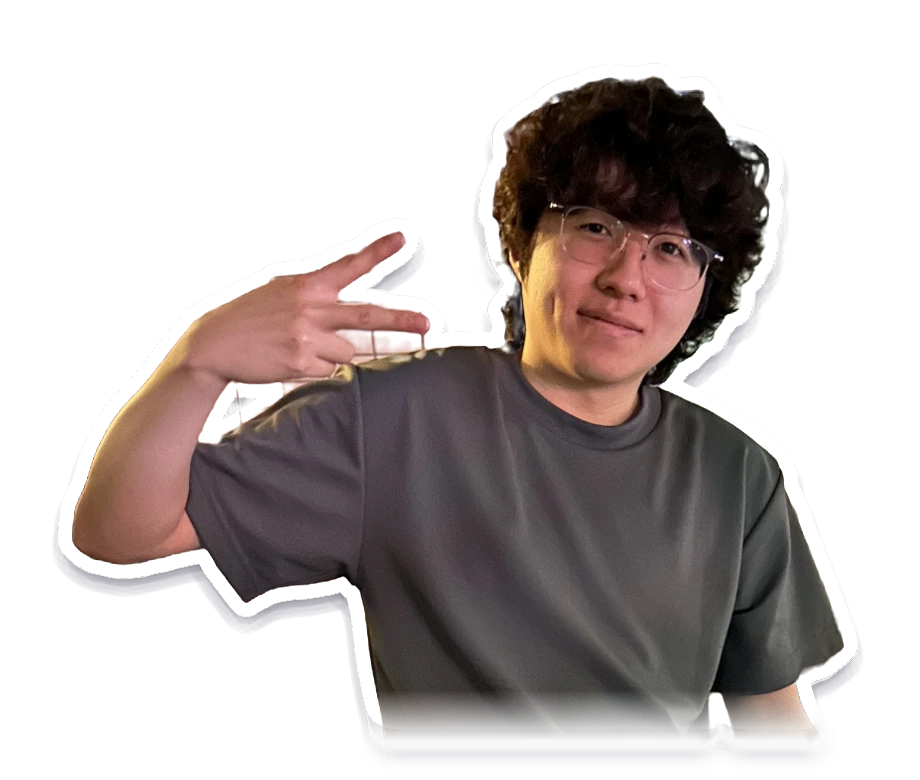
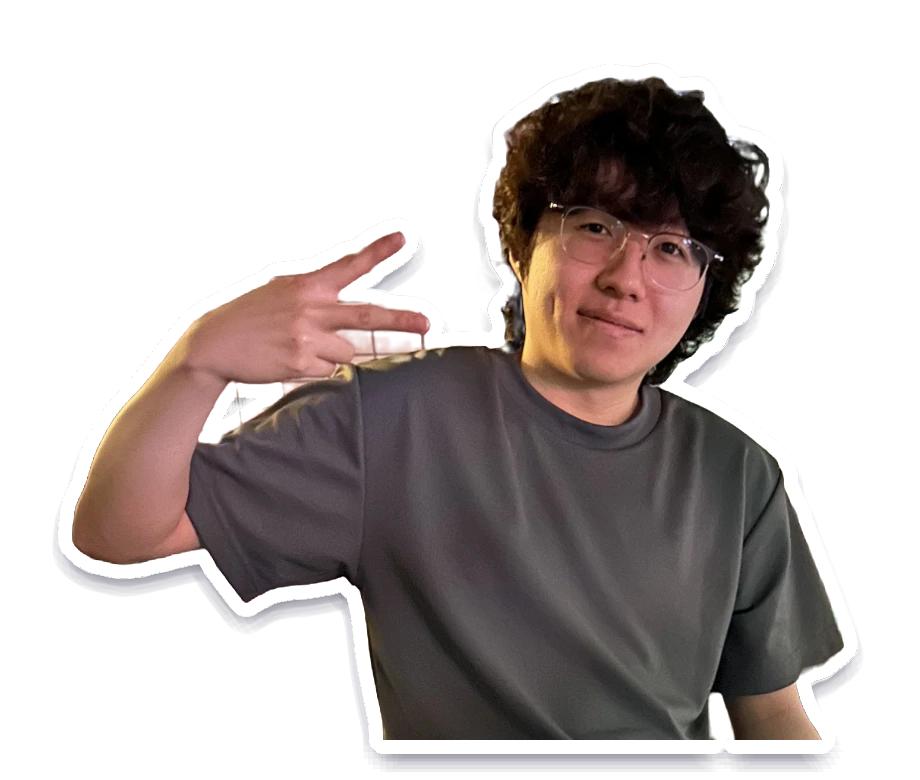
update

Changed region(s): [[0.3957, 0.8923, 0.913, 0.9846]]

diff --git a/index.html b/index.html
@@ -8,33 +8,26 @@
 <meta name="claude:viewport-fit-sides" content="cover">
 <link rel="preconnect" href="https://fonts.googleapis.com">
 <link rel="preconnect" href="https://fonts.gstatic.com" crossorigin>
-<link rel="stylesheet" href="https://fonts.googleapis.com/css2?family=IBM+Plex+Sans+KR:wght@400;500;600&display=swap">
+<link rel="stylesheet" href="https://fonts.googleapis.com/css2?family=Noto+Sans+KR:wght@400;500;600;700&display=swap">
 <style>
-/* Layout: 상단 내비게이션 + 두 화면(타임라인 지도 / 플레이 라이브러리 그리드) */
+/* Color: 포트폴리오 추천 팔레트 'Studio Concrete'
+   Charcoal #2B2D33 · Mid-gray #6E7278 · Off-white #F4F1ED · Orange-red #FF5C39 (포인트는 5% 이하로만)
+   Type: Noto Sans KR (가독성 우선) */
 :root {
-  --bg: #eef0f4;
-  --surface: #ffffff;
-  --ink: #14161c;
-  --muted: #5d6372;
-  --line: #d7dbe3;
-  --accent: #2b45d4;
-  --accent-soft: #dfe4fb;
-  --done: #3f9b5a;
-  --done-soft: #dcefe1;
-  --path: #b9bfcc;
-  --body: "IBM Plex Sans KR", "Apple SD Gothic Neo", "Malgun Gothic", system-ui, sans-serif;
-}
-@media (prefers-color-scheme: dark) {
-  :root:not([data-theme="light"]) {
-    --bg: #101218; --surface: #191c24; --ink: #eceef3; --muted: #9aa1b2; --line: #2a2f3b;
-    --accent: #7d92ff; --accent-soft: #232b4d; --done: #66c283; --done-soft: #1d3326; --path: #3a404e; color-scheme: dark;
-  }
-}
-:root[data-theme="dark"] {
-  --bg: #101218; --surface: #191c24; --ink: #eceef3; --muted: #9aa1b2; --line: #2a2f3b;
-  --accent: #7d92ff; --accent-soft: #232b4d; --done: #66c283; --done-soft: #1d3326; --path: #3a404e; color-scheme: dark;
-}
-
+  --bg: #f4f1ed;
+  --surface: #fbfaf8;
+  --ink: #2b2d33;
+  --muted: #6e7278;
+  --line: #e2ddd6;
+  --accent: #ff5c39;
+  --accent-soft: #ece7e0;
+  --done: #2b2d33;
+  --done-soft: #ece7e0;
+  --path: #c9c4bd;
+  --body: "Noto Sans KR", "Apple SD Gothic Neo", "Malgun Gothic", system-ui, sans-serif;
+  --display: var(--body);
+  color-scheme: light;
+}h1, h2, h3, .brand { font-family: var(--display); }
 * { box-sizing: border-box; }
 [hidden] { display: none !important; }
 body { background: var(--bg); color: var(--ink); font-family: var(--body); }
@@ -78,7 +71,7 @@ main.wrap { padding-block: clamp(40px, 6vw, 80px) clamp(56px, 8vw, 106px); }
   padding: 6px 11px; border-radius: 999px;
 }
 .filter:hover { background: var(--accent-soft); }
-.filter[aria-pressed="true"] { background: var(--accent); border-color: var(--accent); color: var(--bg); }
+.filter[aria-pressed="true"] { background: var(--ink); border-color: var(--ink); color: #fff; }
 .filter:focus-visible { outline: 2px solid var(--accent); outline-offset: 2px; }
 .filter .n { font-size: 11px; opacity: .7; margin-left: 4px; font-variant-numeric: tabular-nums; }
 .grid { display: grid; grid-template-columns: repeat(auto-fill, minmax(108px, 1fr)); gap: 22px 16px; list-style: none; margin: 0; padding: 0; }
@@ -121,16 +114,16 @@ main.wrap { padding-block: clamp(40px, 6vw, 80px) clamp(56px, 8vw, 106px); }
 }
 .node svg { width: 20px; height: 20px; }
 .stage[data-state="done"] .node { border-color: var(--done); background: var(--done-soft); color: var(--done); }
-.stage[data-state="current"] .node { border-color: var(--accent); background: var(--accent); color: var(--surface); box-shadow: 0 0 0 6px var(--accent-soft); }
+.stage[data-state="current"] .node { border-color: var(--accent); background: var(--accent); color: #fff; box-shadow: 0 0 0 6px var(--accent-soft); }
 .stage[data-state="goal"] .node { border-style: dashed; color: var(--muted); }
 .stage[data-highlight] .node { width: 56px; height: 56px; }
 .lv { font-size: 12px; font-weight: 600; font-variant-numeric: tabular-nums; letter-spacing: .02em; color: var(--muted); background: var(--surface); padding: 1px 9px; border-radius: 999px; box-shadow: 0 0 0 1px var(--line); position: relative; z-index: 1; white-space: nowrap; }
 .stage[data-state="done"] .lv { color: var(--done); }
-.stage[data-state="current"] .lv { color: var(--accent); }
+.stage[data-state="current"] .lv { color: var(--ink); }
 
 .card { max-width: 860px; display: grid; gap: 10px; }
 .card .year { font-size: 13px; font-weight: 600; letter-spacing: .06em; color: var(--muted); font-variant-numeric: tabular-nums; margin-bottom: -6px; }
-.stage[data-state="current"] .card .year { color: var(--accent); }
+
 .card .head { display: flex; flex-wrap: wrap; align-items: baseline; gap: 6px 10px; }
 .card h3 { margin: 0; font-size: 19px; font-weight: 600; line-height: 1.35; text-wrap: balance; }
 .card p { margin: 0; font-size: 15px; line-height: 1.75; color: var(--muted); word-break: keep-all; max-width: 68ch; }
@@ -155,7 +148,7 @@ main.wrap { padding-block: clamp(40px, 6vw, 80px) clamp(56px, 8vw, 106px); }
 .links { display: flex; flex-wrap: wrap; gap: 8px; }
 .links a {
   font-size: 13px; font-weight: 600; color: var(--accent); text-decoration: none;
-  padding: 6px 12px; border-radius: 8px; background: var(--accent-soft);
+  padding: 6px 12px; border-radius: 8px; background: var(--ink); color: #fff;
 }
 .links a:hover { text-decoration: underline; }
 .links a:focus-visible { outline: 2px solid var(--accent); outline-offset: 2px; }
@@ -173,7 +166,7 @@ main.wrap { padding-block: clamp(40px, 6vw, 80px) clamp(56px, 8vw, 106px); }
 .hero { display: grid; grid-template-columns: minmax(0, 1.05fr) minmax(0, .95fr); align-items: center; gap: 40px; padding-block: 12px 56px; }
 .eyebrow { font-size: 12px; font-weight: 600; letter-spacing: .14em; color: var(--accent); display: flex; align-items: center; gap: 8px; }
 .eyebrow::before { content: ""; width: 22px; height: 2px; background: var(--accent); }
-.hero h1 { margin: 18px 0 0; font-size: clamp(36px, 5.4vw, 72px); line-height: 1.12; letter-spacing: -.035em; font-weight: 600; text-wrap: balance; word-break: keep-all; }
+.hero h1 { margin: 0; font-size: clamp(36px, 5.4vw, 72px); line-height: 1.12; letter-spacing: -.035em; font-weight: 600; text-wrap: balance; word-break: keep-all; }
 .hero h1 em { font-style: normal; color: var(--accent); }
 .hero .sub { margin: 22px 0 0; font-size: 17px; line-height: 1.7; color: var(--muted); max-width: 34em; word-break: keep-all; }
 .cta { display: flex; flex-wrap: wrap; gap: 10px; margin-top: 30px; }
@@ -182,13 +175,13 @@ main.wrap { padding-block: clamp(40px, 6vw, 80px) clamp(56px, 8vw, 106px); }
 .btn:hover { box-shadow: 0 0 0 1px var(--ink); }
 .btn:focus-visible { outline: 2px solid var(--accent); outline-offset: 2px; }
 .photo { position: relative; justify-self: end; width: min(100%, 460px); }
-.photo { isolation: isolate; padding: 24px 0 8px; }
-.photo::before { content: ""; position: absolute; inset: 14% 4% 0 6%; z-index: -1; background: var(--accent-soft); border-radius: 46% 54% 44% 56% / 52% 46% 54% 48%; }
-.photo::after { content: ""; position: absolute; z-index: -1; right: 2%; top: 6%; width: 74px; height: 74px; border-radius: 50%; border: 2px dashed var(--accent); opacity: .5; }
-.photo img { width: 100%; height: auto; display: block; position: relative; }
-.photo .spark { position: absolute; z-index: 1; color: var(--accent); font-size: 22px; line-height: 1; }
+.photo { isolation: isolate; padding: 0; }
+
+
+.photo img { width: 100%; height: auto; display: block; position: relative; margin-bottom: 0; }
+.photo .spark { position: absolute; z-index: 1; color: var(--ink); font-size: 22px; line-height: 1; }
 .photo .tag { position: absolute; z-index: 2; left: -4px; bottom: 18%; background: var(--surface); box-shadow: 0 0 0 1px var(--line), 0 10px 24px -14px rgba(20, 22, 28, .45); border-radius: 12px; padding: 10px 14px; font-size: 13px; display: grid; gap: 2px; }
-.photo .tag b { font-size: 12px; color: var(--accent); letter-spacing: .06em; }
+.photo .tag b { font-size: 12px; color: var(--ink); letter-spacing: .06em; }
 @media (max-width: 860px) {
   .hero { grid-template-columns: minmax(0, 1fr); gap: 28px; }
   .photo { justify-self: center; width: min(100%, 360px); order: -1; }
@@ -212,7 +205,7 @@ main.wrap { padding-block: clamp(40px, 6vw, 80px) clamp(56px, 8vw, 106px); }
 .pick img { width: 100%; height: 100%; object-fit: contain; display: block; transition: transform .25s ease; }
 .pick:hover img { transform: scale(1.03); }
 .pick .k { font-size: 12px; font-weight: 600; color: var(--accent); }
-.pick h3 { margin: -6px 0 0; font-size: 18px; font-weight: 600; }
+.pick h3 { margin: 0; font-size: 18px; font-weight: 600; }
 .pick p { margin: -4px 0 0; font-size: 14px; color: var(--muted); line-height: 1.6; }
 .pick:focus-visible { outline: 2px solid var(--accent); outline-offset: 4px; border-radius: 12px; }
 .method { display: grid; grid-template-columns: repeat(5, minmax(0, 1fr)); gap: 12px; list-style: none; margin: 0; padding: 0; counter-reset: step; }
@@ -224,9 +217,34 @@ main.wrap { padding-block: clamp(40px, 6vw, 80px) clamp(56px, 8vw, 106px); }
 .shelf { display: grid; grid-template-columns: repeat(12, minmax(0, 1fr)); gap: 12px; }
 @media (max-width: 860px) { .shelf { grid-template-columns: repeat(6, minmax(0, 1fr)); } }
 .shelf img { width: 100%; aspect-ratio: 1; object-fit: cover; border-radius: 22%; box-shadow: 0 0 0 1px var(--line); display: block; }
+.shelf .spot { grid-column: span 2; margin: 0; display: grid; gap: 8px; align-content: start; justify-items: center; }
+.shelf .spot img { width: 66%; box-shadow: 0 0 0 5px var(--accent); }
+.shelf .spot figcaption { font-size: 14px; font-weight: 600; text-align: center; word-break: keep-all; }
 .site-foot { border-top: 1px solid var(--line); padding-block: 28px 40px; display: flex; flex-wrap: wrap; justify-content: space-between; gap: 12px; font-size: 13px; color: var(--muted); }
 .site-foot b { color: var(--ink); }
 
+/* ---------- About ---------- */
+.about { display: grid; grid-template-columns: repeat(3, minmax(0, 1fr)); gap: 0; border-block: 1px solid var(--line); margin-bottom: 80px; }
+.about > div { padding: 26px 28px 28px 0; display: grid; gap: 14px; align-content: start; min-width: 0; }
+.about > div + div { padding-left: 28px; border-left: 1px solid var(--line); }
+@media (max-width: 860px) { .about { grid-template-columns: minmax(0, 1fr); } .about > div + div { padding-left: 0; border-left: 0; border-top: 1px solid var(--line); } .about > div { padding-right: 0; } }
+.about h3 { margin: 0; font-size: 13px; font-weight: 600; color: var(--muted); letter-spacing: .04em; }
+.about dl { margin: 0; display: grid; grid-template-columns: auto minmax(0, 1fr); gap: 8px 16px; font-size: 14px; }
+.about dt { color: var(--muted); white-space: nowrap; }
+.about dd { margin: 0; word-break: keep-all; }
+.about ul { margin: 0; padding: 0; list-style: none; display: grid; gap: 10px; }
+.about li { font-size: 14px; line-height: 1.55; display: grid; gap: 2px; word-break: keep-all; }
+.about li b { font-weight: 600; }
+.about li span { color: var(--muted); font-size: 13px; }
+.about .chips { display: flex; flex-wrap: wrap; gap: 6px; }
+.about .chips span { font-size: 13px; padding: 4px 10px; border-radius: 999px; background: var(--surface); box-shadow: 0 0 0 1px var(--line); }
+.about dd .sub { color: var(--muted); font-size: 13px; }
+.about .tools { grid-template-columns: minmax(0, 1fr); gap: 2px; }
+.about .tools dt { font-size: 12px; margin-top: 8px; }
+.about .tools dt:first-child { margin-top: 0; }
+.about .timeline-mini li { grid-template-columns: 44px minmax(0, 1fr); column-gap: 10px; }
+.about .timeline-mini time { grid-row: span 2; font-size: 13px; color: var(--muted); font-variant-numeric: tabular-nums; padding-top: 1px; }
+.about .note { margin: 0; font-size: 13px; color: var(--muted); line-height: 1.6; word-break: keep-all; }
 /* ---------- 타임라인 요약 ---------- */
 .lead { margin: 0 0 28px; display: grid; gap: 6px; }
 .lead h2 { margin: 0; font-size: clamp(24px, 3.4vw, 34px); font-weight: 600; letter-spacing: -.02em; line-height: 1.3; text-wrap: balance; }
@@ -281,7 +299,7 @@ main.wrap { padding-block: clamp(40px, 6vw, 80px) clamp(56px, 8vw, 106px); }
 
 <header class="topbar">
   <div class="wrap">
-    <a class="brand" href="#home" style="text-decoration:none;color:inherit">LEE CHANGYEON <span style="font-weight:500;color:var(--muted);font-size:12px;letter-spacing:.08em">· GAME DESIGNER</span></a>
+    <a class="brand" href="#home" style="text-decoration:none;color:inherit">LEE CHANGYEON</a>
     <nav class="nav" aria-label="페이지">
       <a href="#home" id="nav-home">홈</a>
       <a href="#portfolio" id="nav-portfolio">포트폴리오</a>
@@ -295,53 +313,62 @@ main.wrap { padding-block: clamp(40px, 6vw, 80px) clamp(56px, 8vw, 106px); }
   <section id="view-home" aria-labelledby="nav-home">
     <div class="hero">
       <div>
-        <div class="eyebrow">GAME DESIGNER · 이창연</div>
-        <h1>플레이어가 떠나는 순간을 <em>기록하는</em> 기획자</h1>
-        <p class="sub">라이브 게임을 직접 관찰해 데이터로 문제를 증명하고, 플레이어를 다시 붙잡는 시스템을 설계합니다.</p>
-        <div class="cta">
-          <a class="btn primary" href="#portfolio">포트폴리오 보기</a>
-          <a class="btn" href="#timeline">지나온 길</a>
-        </div>
+        
+        <h1>'<em>왜?</em>'를 쫓아 의도를 읽는 기획자</h1>
+        <p class="sub">장르를 막론하고, 게임이 추구하는 가치와 방향을 먼저 찾습니다. 그리고 시스템이 그 방향에 맞게 설계되었는지, 의도대로 작동하는지를 탐구합니다.</p>
+        
       </div>
       <div class="photo">
-        <span class="spark" style="left:4%;top:18%" aria-hidden="true">✦</span><span class="spark" style="right:10%;top:42%;font-size:15px" aria-hidden="true">✦</span><img src="media/profile-sticker.png" alt="이창연 프로필 사진">
-        <div class="tag"><b id="photo-lv">Lv.7</b><span>졸업 · 취업 준비 중</span></div>
+        <img src="media/profile-sticker.png" alt="이창연 프로필 사진">
       </div>
     </div>
 
-    <div class="stats" id="stats"></div>
-
+    <section class="about" aria-label="소개">
+      <div>
+        <h3>PROFILE</h3>
+        <dl>
+          <dt>이름</dt><dd>이창연</dd>
+          <dt>지원 직무</dt><dd>게임 시스템 기획</dd>
+          <dt>학력</dt><dd>삼육대학교 컴퓨터공학부<br><span class="sub">2022.03 – 2026.08 졸업</span></dd>
+          <dt>이메일</dt><dd>lcyred001@naver.com</dd>
+        </dl>
+      </div>
+      <div>
+        <h3>EXPERIENCE</h3>
+        <ul class="timeline-mini">
+          <li><time>2026</time><b>라이브 MMORPG 시스템 기획서 3편</b><span>아이온2 · 제우스: 오만의 신 분석 · 창작</span></li>
+          <li><time>2026</time><b>산학협력 캡스톤 · Tokyo Desire</b><span>기획 담당, 스팀 체험판 출시</span></li>
+          <li><time>2024</time><b>캡스톤디자인 · BapTalkSu</b><span>총괄 기획, 기능 명세 · 일정 관리</span></li>
+          <li><time>2023</time><b>게임개발동아리 creator</b><span>기획 스터디, 역기획서 4편 · 창작 2편</span></li>
+        </ul>
+      </div>
+      <div>
+        <h3>INTERESTS</h3>
+        <div class="chips"><span>시스템 기획</span><span>라이브 서비스 운영</span><span>게임 경제</span><span>서버 간 PvP</span><span>MMORPG</span><span>로그라이크 덱빌딩</span></div>
+        <p class="note">2025–2026 국내 MMORPG 4종을 포함해 104개 게임을 플레이했습니다.</p>
+      </div>
+    </section>
     <div class="home-sec">
-      <div class="sec-head"><div><div class="num">01 · PORTFOLIO</div><h2>대표 작업</h2></div><a href="#portfolio">전체 보기 →</a></div>
+      <div class="sec-head"><div><h2>포트폴리오</h2></div><a href="#portfolio">전체 보기 →</a></div>
       <div class="picks" id="picks"></div>
     </div>
 
     <div class="home-sec">
-      <div class="sec-head"><div><div class="num">02 · HOW I WORK</div><h2>일하는 방식</h2></div></div>
-      <ol class="method">
-        <li><b>관찰</b><span>라이브 게임을 직접 플레이하며 플레이어가 멈추거나 떠나는 지점을 찾는다.</span></li>
-        <li><b>기록</b><span>감이 아니라 숫자로 남긴다. 몇 주씩 같은 지표를 직접 모은다.</span></li>
-        <li><b>진단</b><span>기록으로 문제의 원인을 증명하고, 비슷한 사례가 왜 실패했는지 살핀다.</span></li>
-        <li><b>설계</b><span>기존 리소스를 살려 만들 수 있는 규칙과 테이블로 해결책을 그린다.</span></li>
-        <li><b>검증</b><span>예상되는 부작용을 규칙으로 막고, 효과를 확인할 지표를 정해 둔다.</span></li>
-      </ol>
+      <div class="sec-head"><div><h2>프로젝트</h2></div><a href="#portfolio">전체 보기 →</a></div>
+      <div class="picks" id="projects"></div>
     </div>
 
     <div class="home-sec">
-      <div class="sec-head"><div><div class="num">03 · PLAY LIBRARY</div><h2>최근 플레이한 게임</h2></div><a href="#library" id="shelf-more">전체 보기 →</a></div>
+      <div class="sec-head"><div><h2>최근 플레이한 게임</h2></div><a href="#library" id="shelf-more">전체 보기 →</a></div>
       <div class="shelf" id="shelf"></div>
     </div>
 
-    <footer class="site-foot">
-      <span><b>이창연</b> · 게임기획자 · 플레이어가 떠나는 순간을 기록합니다.</span>
-      <span>lcyred001@naver.com</span>
-    </footer>
   </section>
 
   <section id="view-portfolio" aria-labelledby="nav-portfolio" hidden>
-    <h2 class="section-title">대표 작업</h2>
+    <h2 class="section-title">포트폴리오</h2>
     <div class="featured" id="featured"></div>
-    <h2 class="section-title">그 외 작업</h2>
+    <h2 class="section-title">프로젝트</h2>
     <div class="others" id="others"></div>
   </section>
 
@@ -587,7 +614,7 @@ main.wrap { padding-block: clamp(40px, 6vw, 80px) clamp(56px, 8vw, 106px); }
     <article class="work">
       <button type="button" class="cover shot-btn" data-src="${esc(w.cover)}" data-caption="${esc(w.title)}" aria-label="${esc(w.title)} 표지 크게 보기"><img src="${esc(w.cover)}" alt="" loading="lazy"></button>
       <div class="body">
-        <div class="meta"><span class="kind">${esc(w.type)}</span><span>${esc(w.year)}</span></div>
+        
         <h3>${esc(w.title)}</h3>
         <div class="game">${esc(w.game)}</div>
         ${w.tags ? `<div class="tags">${w.tags.map(t => `<span>${esc(t)}</span>`).join('')}</div>` : ''}
@@ -625,8 +652,6 @@ main.wrap { padding-block: clamp(40px, 6vw, 80px) clamp(56px, 8vw, 106px); }
         ${s.year ? `<span class="year">${esc(s.year)}</span>` : ''}
         <div class="head">
           <h3>${esc(s.title)}</h3>
-          ${s.state === 'current' ? '<span class="badge">지금 여기</span>' : ''}
-          ${s.highlight ? '<span class="badge">대표 프로젝트</span>' : ''}
         </div>
         <p>${esc(s.desc)}</p>
         ${s.media && s.media.length ? `<div class="media">${s.media.map(m => typeof m === 'string'
@@ -683,22 +708,21 @@ main.wrap { padding-block: clamp(40px, 6vw, 80px) clamp(56px, 8vw, 106px); }
   /* ================= 화면 전환 ================= */
   /* ================= 홈 ================= */
   const featured = works.filter(w => w.featured);
-  document.getElementById('picks').innerHTML = featured.map(w => `
+  const pickHtml = w => `
     <a class="pick" href="#portfolio">
       <div class="img"><img src="${esc(w.cover)}" alt="" loading="lazy"></div>
-      <div class="k">${esc(w.type)} · ${esc(w.game)}</div>
       <h3>${esc(w.title)}</h3>
-      <p>${esc(w.hook)}</p>
-    </a>`).join('');
-  document.getElementById('shelf').innerHTML = sorted.slice(0, 12).map(g => `<img src="icons/${g.id}.jpg" alt="${esc(g.name)}" title="${esc(g.name)}" loading="lazy">`).join('');
+      <p>${esc(w.hook || w.summary)}</p>
+    </a>`;
+  document.getElementById('picks').innerHTML = featured.map(pickHtml).join('');
+  document.getElementById('projects').innerHTML = works.filter(w => !w.featured).map(pickHtml).join('');
+  // 기획서를 쓰며 분석한 2026 신작 MMORPG(도깨비의세계 · 이클립스 · 제우스)는 강조
+  const SPOTLIGHT = ['dokkaebi', 'eclipse', 'zeus'];
+  const shelfGames = [...sorted.filter(g => SPOTLIGHT.includes(g.id)), ...sorted.filter(g => !SPOTLIGHT.includes(g.id))].slice(0, SPOTLIGHT.length + 18);
+  document.getElementById('shelf').innerHTML = shelfGames.map(g => SPOTLIGHT.includes(g.id)
+    ? `<figure class="spot"><img src="icons/${g.id}.jpg" alt="${esc(g.name)}" loading="lazy"><figcaption>${esc(g.name)}</figcaption></figure>`
+    : `<img src="icons/${g.id}.jpg" alt="${esc(g.name)}" title="${esc(g.name)}" loading="lazy">`).join('');
   document.getElementById('shelf-more').textContent = `${games.length}개 전체 보기 →`;
-  document.getElementById('photo-lv').textContent = 'Lv.' + reached;
-  document.getElementById('stats').innerHTML = [
-    [`${span}년`, `게임을 만들어 온 시간 (${Math.min(...years)}~)`],
-    [`${games.length}개`, '플레이한 게임'],
-    [`${featured.length}편`, '라이브 MMORPG 시스템 기획서'],
-    ['6주', '직접 기록한 라이브 데이터']
-  ].map(([n, t]) => `<div><strong>${n}</strong><span>${t}</span></div>`).join('');
 
   const views = { home: document.getElementById('view-home'), portfolio: document.getElementById('view-portfolio'), timeline: document.getElementById('view-timeline'), library: document.getElementById('view-library') };
   function route() {
